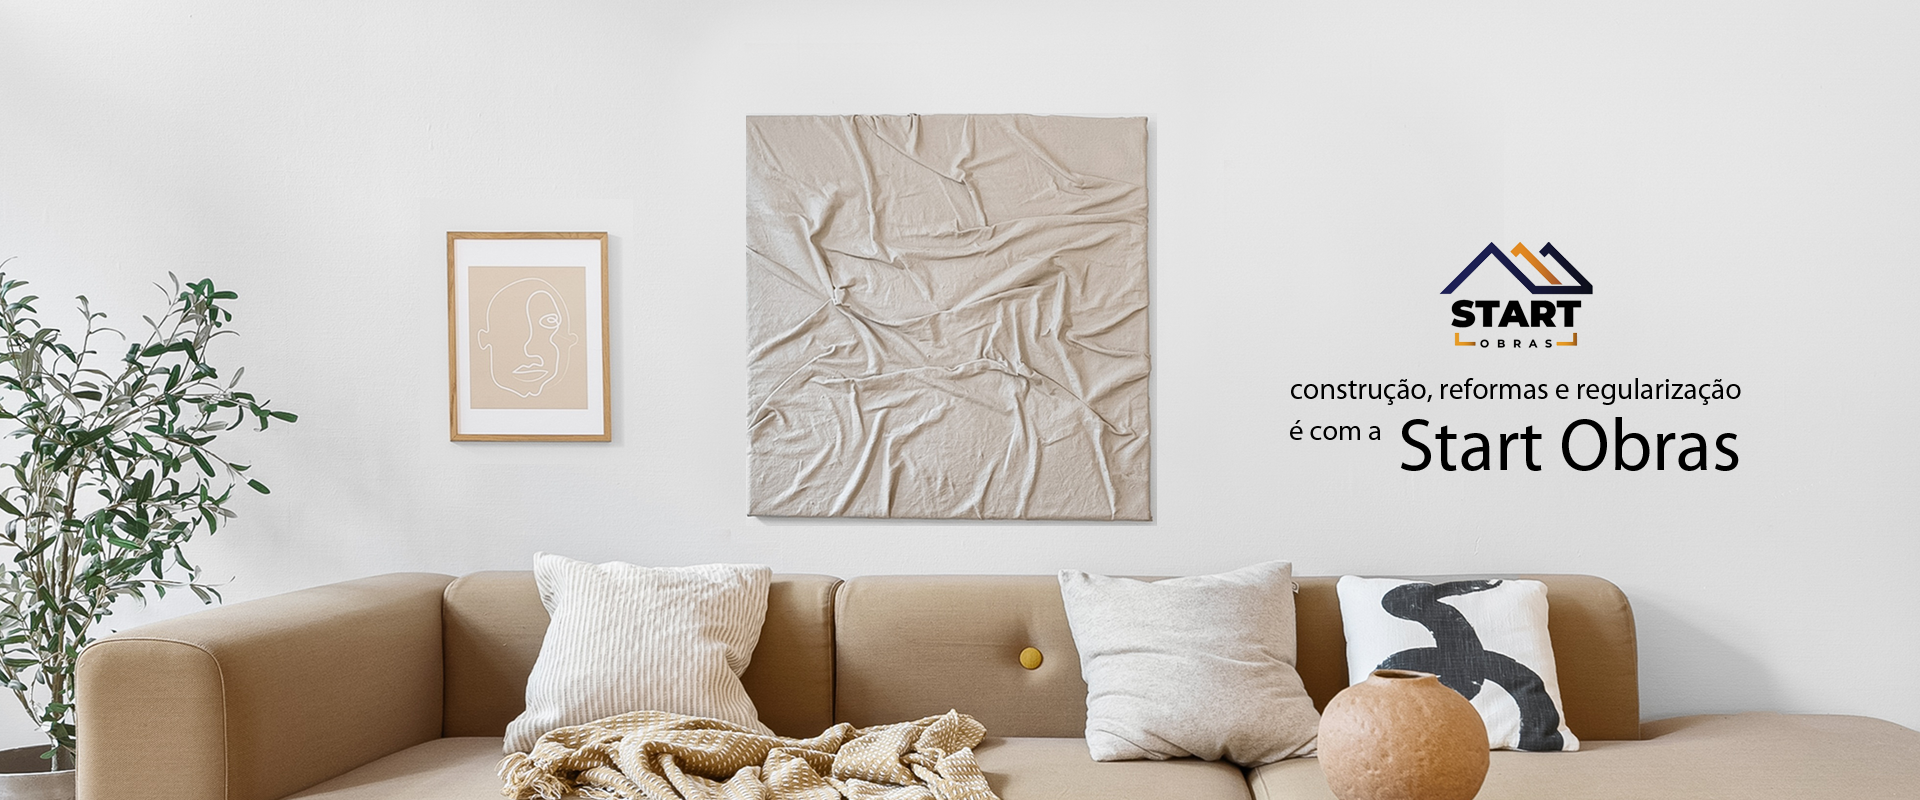
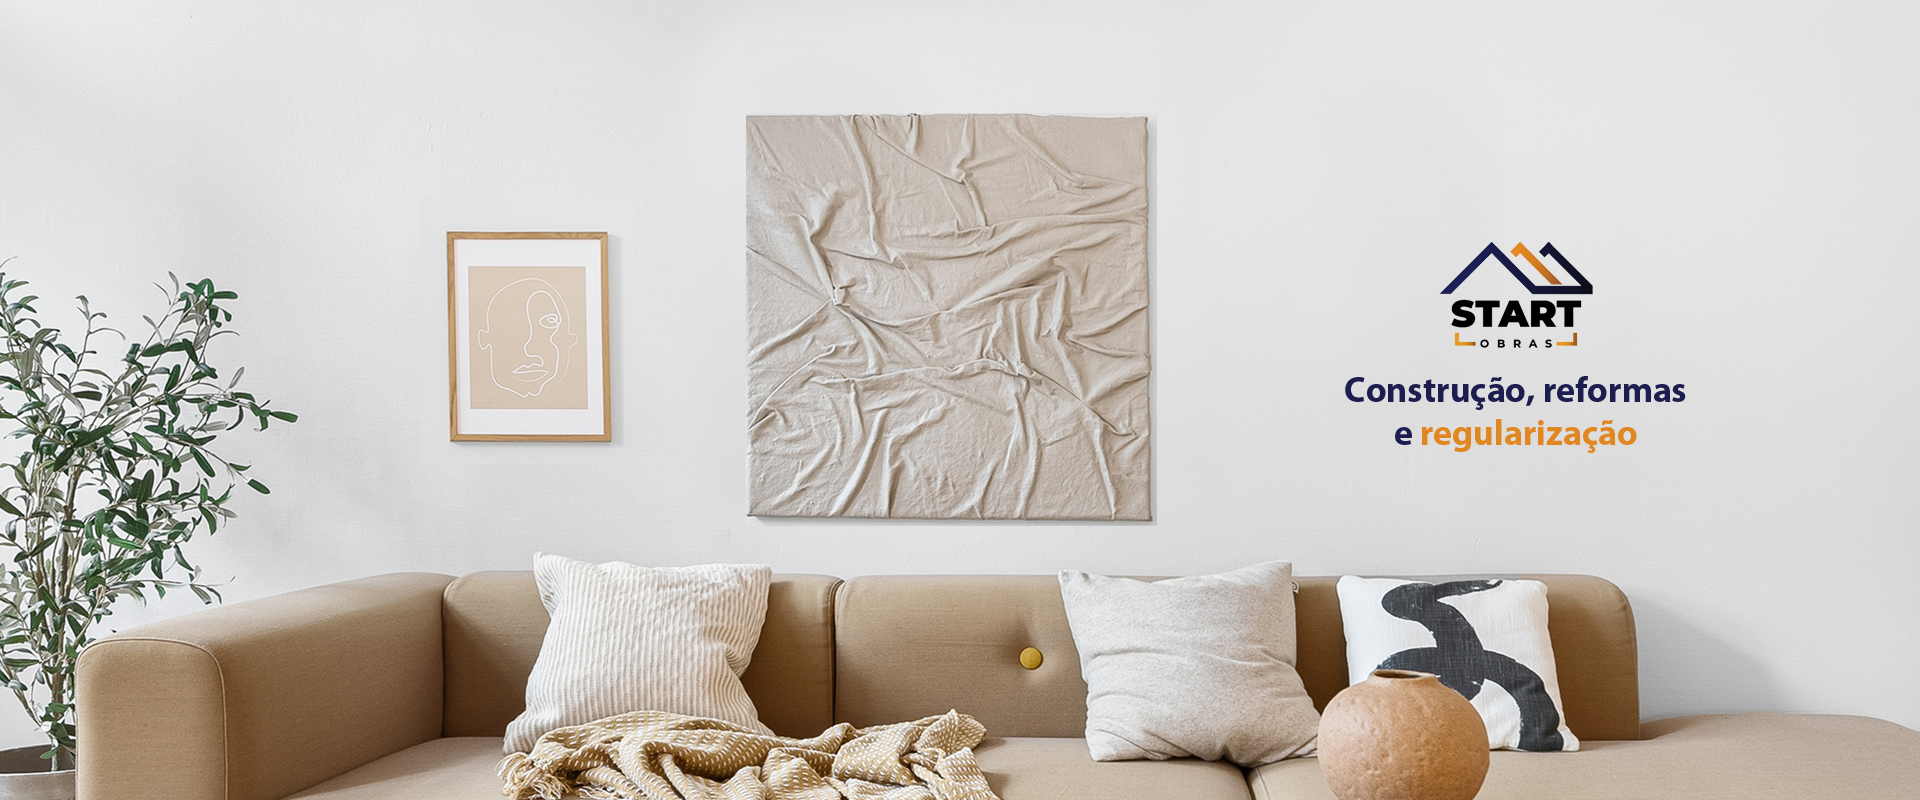
asdsadsadsad

Changed region(s): [[0.6562, 0.4688, 0.9062, 0.5938]]

diff --git a/src/components/SwiperPrincipal.styles.jsx b/src/components/SwiperPrincipal.styles.jsx
@@ -3,22 +3,37 @@ import styled from 'styled-components';
 export const Container = styled.div`
   width: 100%;
   padding: 0px;
-  margin-top: 0px;
-  height: 500px;
+  
+  /* Margem negativa reduzida para descer um pouco o banner */
+  margin-top: -110px; 
+  position: relative;
+  z-index: 1;
+
+  aspect-ratio: 18 / 9; 
+  height: auto;
+  overflow: hidden;
 
   @media (max-width: 768px) {
-    height: 350px;
+    margin-top: -80px;
+    aspect-ratio: 16 / 8.5;
   }
 
   @media (max-width: 480px) {
-    height: 280px;
+    margin-top: -60px;
+    aspect-ratio: 16 / 9;
   }
 
   /* ---------- SLIDES ---------- */
 
+  .swiper {
+    width: 100%;
+    height: 100%;
+  }
+
   .swiper-slide {
     opacity: 0.4;
     transition: 0.3s;
+    height: 100%;
   }
 
   .swiper-slide-active {
@@ -31,8 +46,8 @@ export const Container = styled.div`
   .swiper-button-next,
   .swiper-button-prev {
     color: white;
-    /* TAMANHO DAS SETAS */
     transform: scale(0.7);
+    z-index: 3;
 
     @media (max-width: 768px) {
       transform: scale(0.5);
@@ -71,10 +86,15 @@ export const SlideBox = styled.div`
   width: 100%;
   height: 100%;
 
+  /* Mantido o corte de 10% total (5% topo, 5% base) */
+  clip-path: inset(5% 0 5% 0);
+
   img {
     width: 100%;
     height: 100%;
     object-fit: cover;
+    object-position: center;
+    display: block;
   }
 `;
 
@@ -84,24 +104,52 @@ export const TextoOverlay = styled.div`
   align-items: center;
   justify-content: center;
   position: absolute;
+  bottom: 5%;
+  left: 0;
   width: 100%;
-  padding: 16px;
+  max-height: 90%;
+  padding: 24px 16px;
   color: #fff;
   box-sizing: border-box;
-  background: #ffffff7c;
+  background: linear-gradient(transparent, rgba(0, 0, 0, 0.75));
+  z-index: 2;
 
   @media (max-width: 768px) {
-    padding: 12px;
+    padding: 16px 12px;
+    bottom: 3%;
   }
 
   @media (max-width: 480px) {
-    padding: 8px;
+    padding: 12px 8px;
+    bottom: 0;
   }
 `;
 
 export const Titulo = styled.h3`
   margin: 0 0 4px 0;
-  font-size: 1.9rem;
+  font-size: 1.8rem;
+  text-align: center;
+
+  @media (max-width: 768px) {
+    font-size: 1.2rem;
+  }
+
+  @media (max-width: 480px) {
+    font-size: 0.9rem;
+    margin: 0 0 2px 0;
+  }
+`;
+
+export const Descricao = styled.p`
+  margin: 0;
+  font-size: 2.5rem;
+  color: #ffffff;
+  font-weight: 700;
+  text-align: center;
+
+  @media (max-width: 1200px) {
+    font-size: 2rem;
+  }
 
   @media (max-width: 768px) {
     font-size: 1.4rem;
@@ -109,25 +157,5 @@ export const Titulo = styled.h3`
 
   @media (max-width: 480px) {
     font-size: 1rem;
-    margin: 0 0 2px 0;
-  }
-`;
-
-export const Descricao = styled.p`
-  margin: 0;
-  font-size: 9rem;
-  color: #000000;
-  font-weight: 900;
-
-  @media (max-width: 1200px) {
-    font-size: 5rem;
-  }
-
-  @media (max-width: 768px) {
-    font-size: 3rem;
-  }
-
-  @media (max-width: 480px) {
-    font-size: 1.5rem;
   }
 `;
